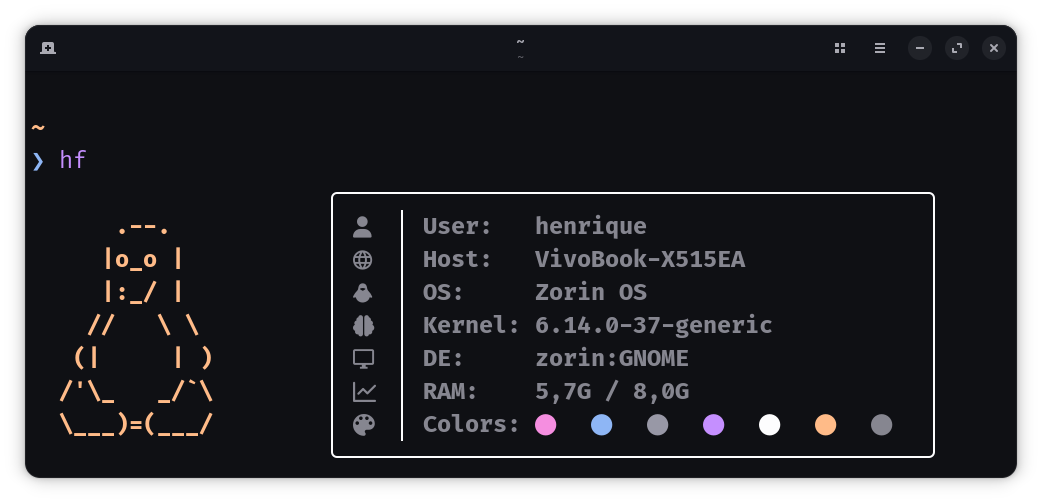
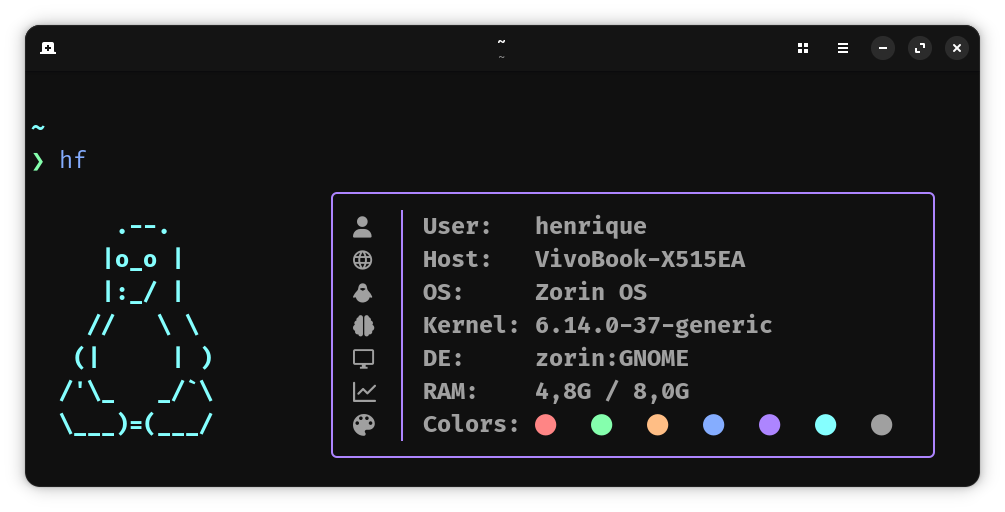
Update colors and screenshots

diff --git a/src/styles/global.css b/src/styles/global.css
@@ -2,18 +2,18 @@
 
 :root {
   --bg-primary: #101010;
-  --bg-secondary: #131313;
-  --bg-tertiary: #171717;
+  --bg-secondary: #161616;
+  --bg-tertiary: #1c1c1c;
 
-  --fg-primary: #868690;
-  --fg-secondary: #575861;
+  --fg-primary: #a0a0a0;
+  --fg-secondary: #7e7e7e;
 
-  --accent-sky: #8eb6f5;
-  --accent-indigo: #c58fff;
-  --accent-pink: #f58ee0;
-  --accent-orange: #ffbb88;
-  --accent-stone: #9898a6;
-  --accent-metal: #fdfdfe;
+  --accent-sky: #85adff;
+  --accent-indigo: #ad85ff;
+  --accent-pink: #f585ed;
+  --accent-orange: #ffbe85;
+  --accent-stone: #808080;
+  --accent-metal: #fff;
 }
 
 body {
